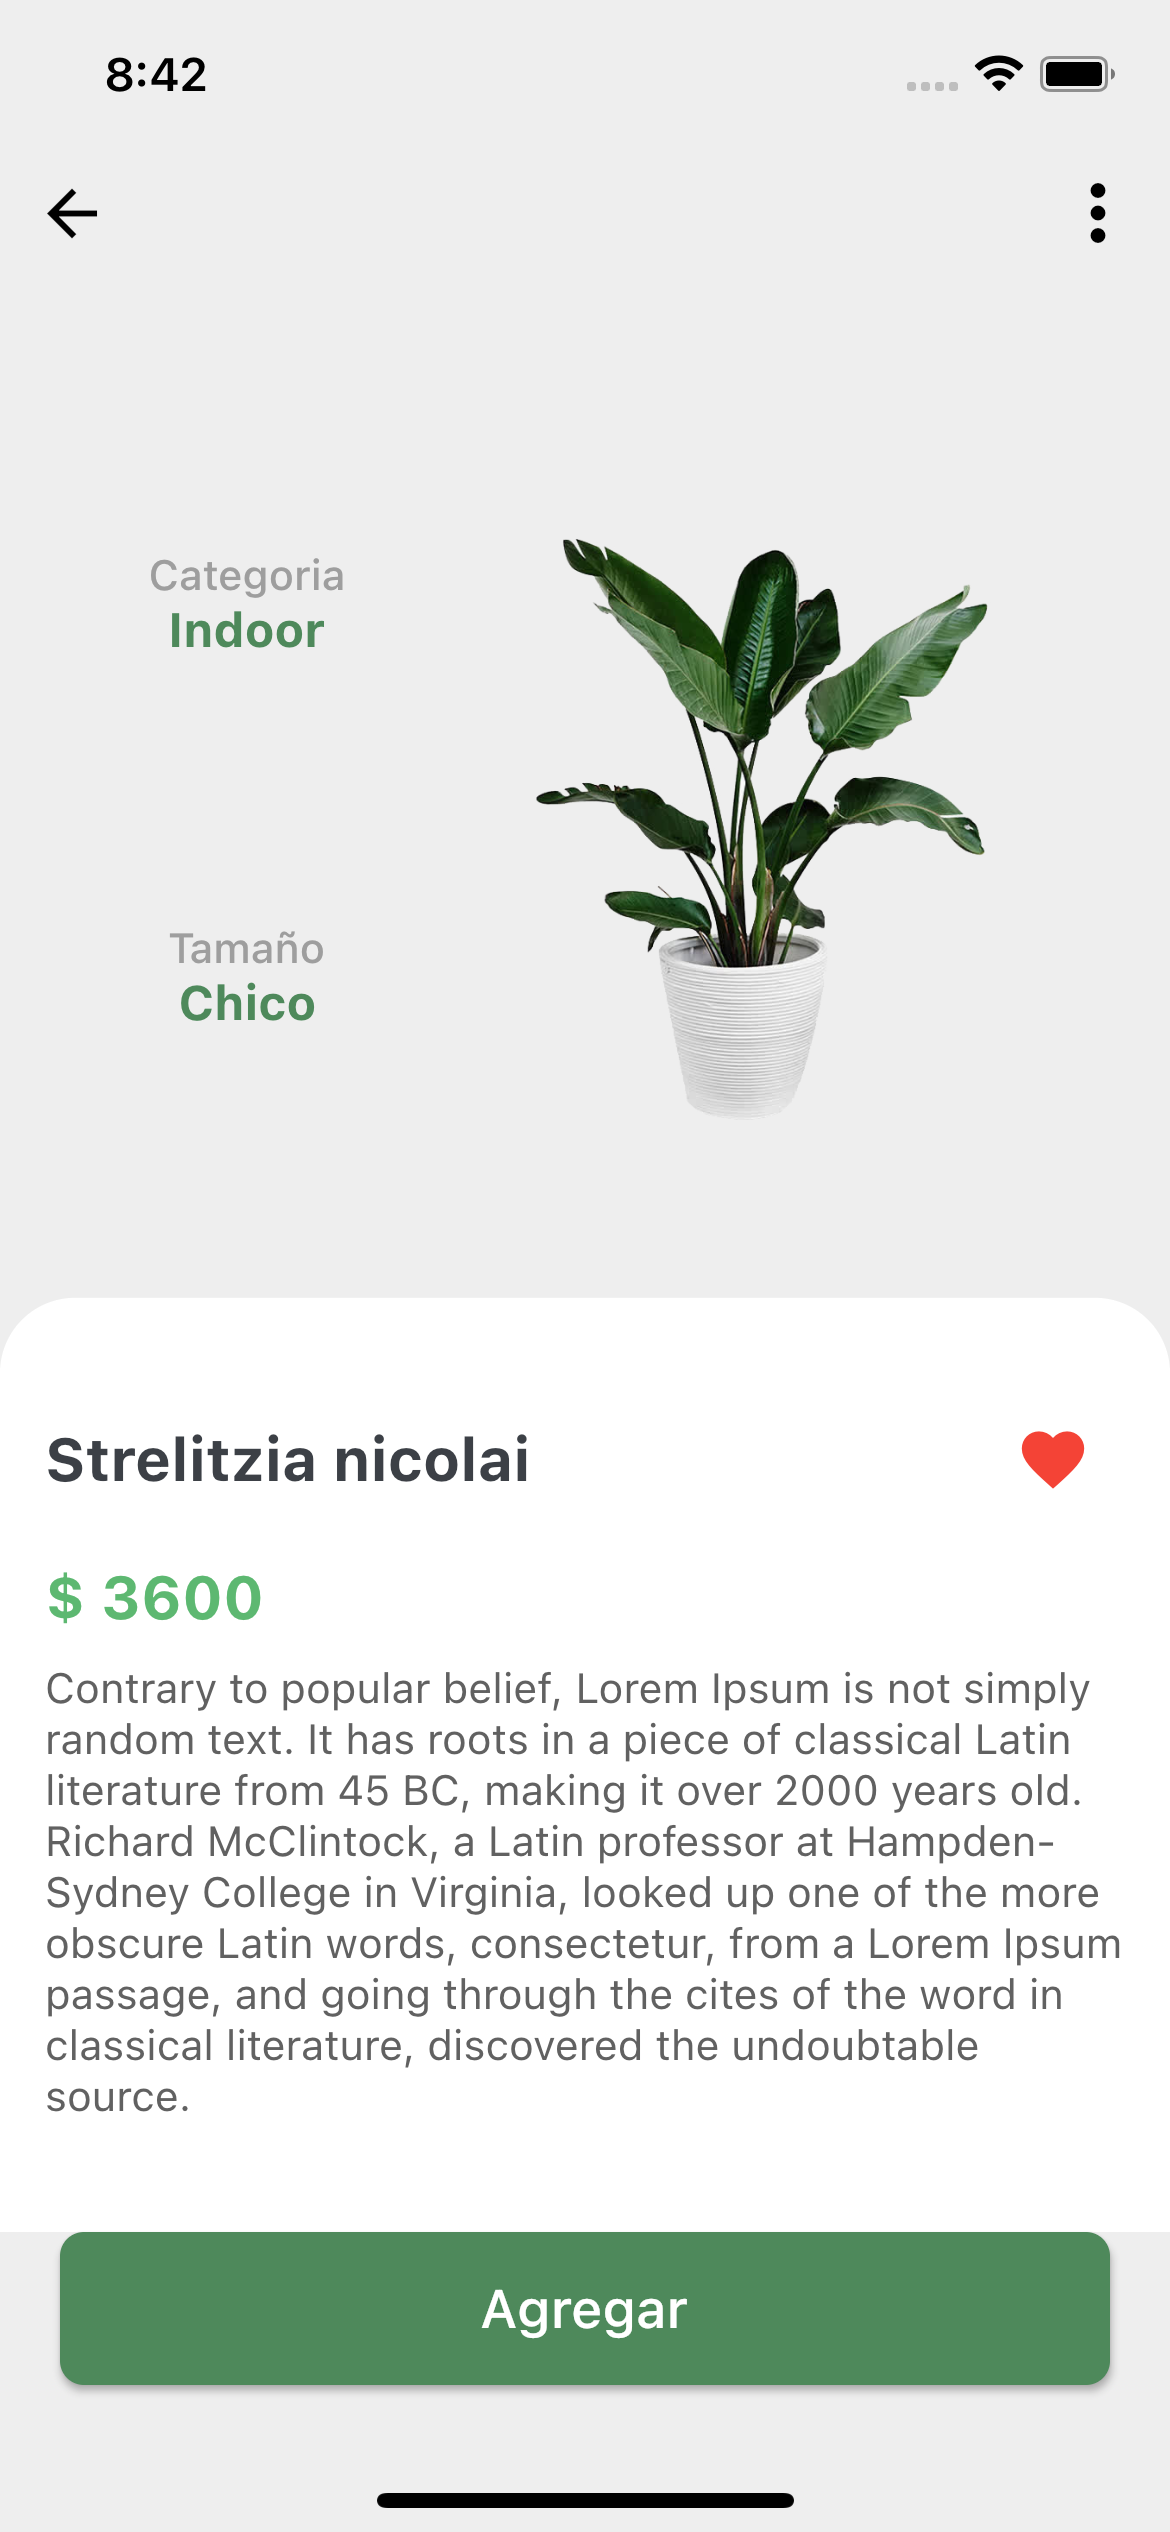
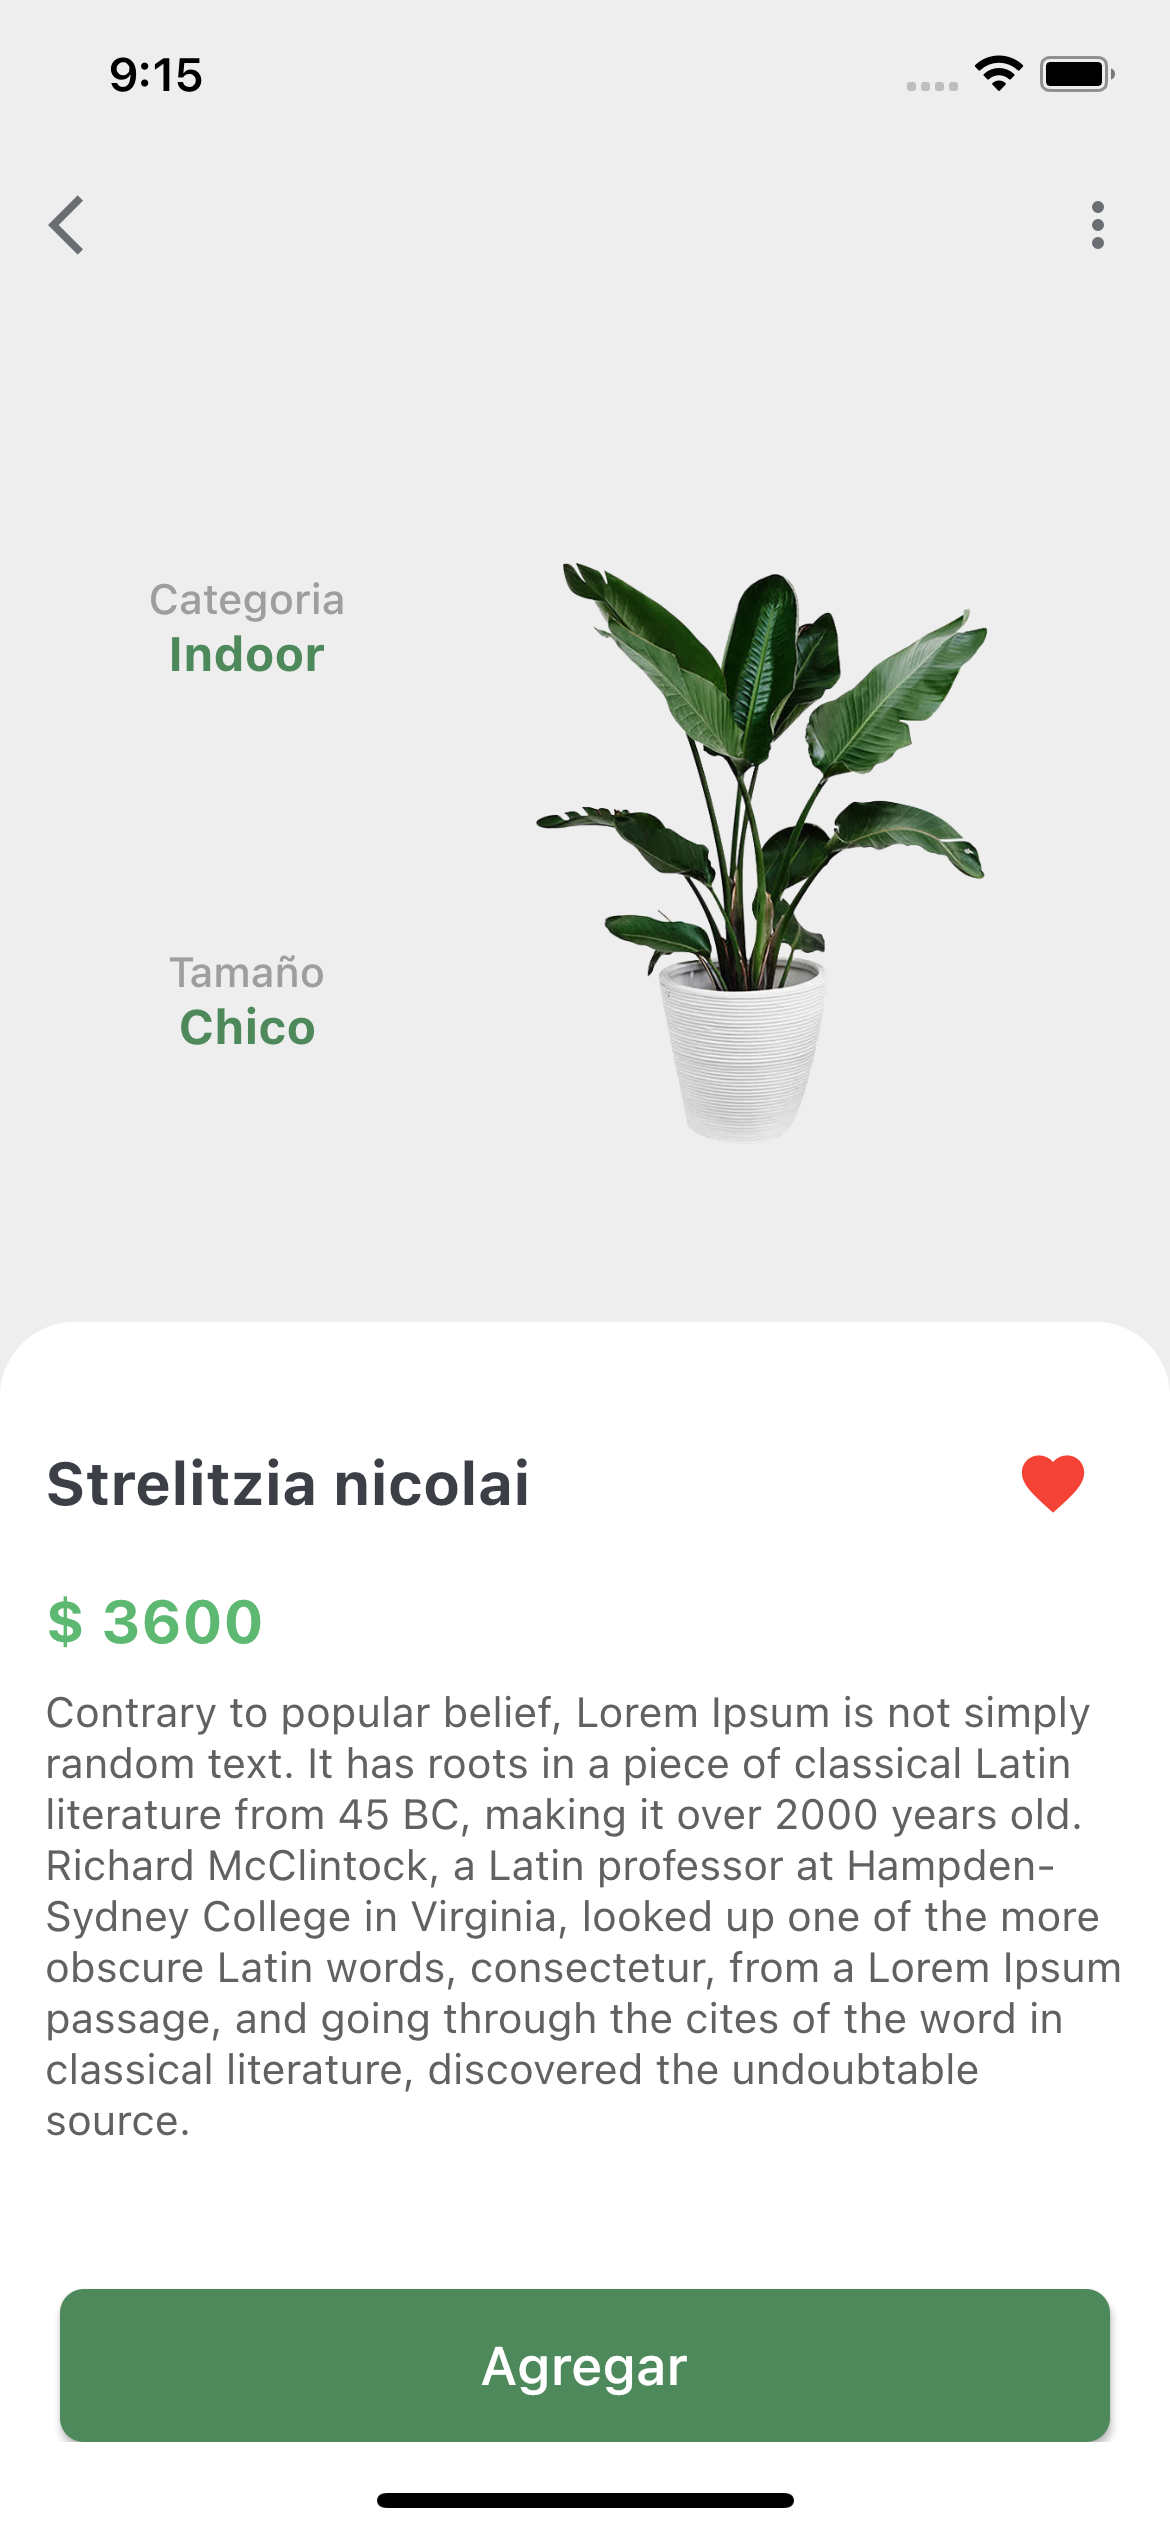
update Detail Plant

diff --git a/lib/src/pages/detail/detail_page.dart b/lib/src/pages/detail/detail_page.dart
@@ -17,74 +17,81 @@ class DetailPage extends StatelessWidget {
     final _size = MediaQuery.of(context).size;
 
     return Scaffold(
-      body: SafeArea(
-        child: Column(
-          children: [
-            _createHeader(context),
-            Container(
-              height: _size.height * 0.4,
-              child: Row(
-                mainAxisAlignment: MainAxisAlignment.spaceEvenly,
-                children: [
-                  Column(
-                    mainAxisAlignment: MainAxisAlignment.spaceEvenly,
-                    children: [
-                      Container(
-                        child: Column(
-                          children: [
-                            Text(
-                              "Categoria",
-                              style: TextStyle(
-                                  color: Colors.grey,
-                                  fontWeight: FontWeight.w500),
-                            ),
-                            Text(
-                              plant.houseplant ? "Indoor" : "Outdoor",
-                              style: TextStyle(
-                                  fontSize: 16.0,
-                                  color: kPrimaryColorDark,
-                                  fontWeight: FontWeight.bold),
-                            )
-                          ],
-                        ),
+      appBar: AppBar(
+        backgroundColor: kBackgroundColor,
+        actions: [
+          IconButton(icon: Icon(Icons.more_vert), onPressed: () {}),
+        ],
+      ),
+      body: Column(
+        children: [
+          Container(
+            color: kBackgroundColor,
+            height: _size.height * 0.4,
+            child: Row(
+              mainAxisAlignment: MainAxisAlignment.spaceEvenly,
+              children: [
+                Column(
+                  mainAxisAlignment: MainAxisAlignment.spaceEvenly,
+                  children: [
+                    Container(
+                      child: Column(
+                        children: [
+                          Text(
+                            "Categoria",
+                            style: TextStyle(
+                                color: Colors.grey,
+                                fontWeight: FontWeight.w500),
+                          ),
+                          Text(
+                            plant.houseplant ? "Indoor" : "Outdoor",
+                            style: TextStyle(
+                                fontSize: 16.0,
+                                color: kPrimaryColorDark,
+                                fontWeight: FontWeight.bold),
+                          )
+                        ],
                       ),
-                      Container(
-                        child: Column(
-                          children: [
-                            Text(
-                              "Tamaño",
-                              style: TextStyle(
-                                  color: Colors.grey,
-                                  fontWeight: FontWeight.w500),
-                            ),
-                            Text(
-                              "Chico",
-                              style: TextStyle(
-                                  fontSize: 16.0,
-                                  color: kPrimaryColorDark,
-                                  fontWeight: FontWeight.bold),
-                            )
-                          ],
-                        ),
-                      )
-                    ],
-                  ),
-                  _imagePlant(context)
-                ],
-              ),
+                    ),
+                    Container(
+                      child: Column(
+                        children: [
+                          Text(
+                            "Tamaño",
+                            style: TextStyle(
+                                color: Colors.grey,
+                                fontWeight: FontWeight.w500),
+                          ),
+                          Text(
+                            "Chico",
+                            style: TextStyle(
+                                fontSize: 16.0,
+                                color: kPrimaryColorDark,
+                                fontWeight: FontWeight.bold),
+                          )
+                        ],
+                      ),
+                    )
+                  ],
+                ),
+                _imagePlant(context)
+              ],
             ),
-            Expanded(
-              child: Container(
-                width: MediaQuery.of(context).size.width * 1,
-                decoration: BoxDecoration(
-                    color: Colors.white,
-                    borderRadius: BorderRadius.only(
-                        topRight: Radius.circular(25.0),
-                        topLeft: Radius.circular(25.0))),
-                child: _createDetail(context),
-              ),
+          ),
+          Expanded(
+            child: Container(
+              width: MediaQuery.of(context).size.width * 1,
+              decoration: BoxDecoration(
+                  color: Colors.white,
+                  borderRadius: BorderRadius.only(
+                      topRight: Radius.circular(25.0),
+                      topLeft: Radius.circular(25.0))),
+              child: _createDetail(context),
             ),
-            ButtonPrimary(
+          ),
+          Container(
+            color: Colors.white,
+            child: ButtonPrimary(
               text: plant.stock ? "Agregar" : "Sin Stock",
               onPressed: () {
                 final snackBar = SnackBar(
@@ -97,35 +104,15 @@ class DetailPage extends StatelessWidget {
                   ),
                 );
                 ScaffoldMessenger.of(context).showSnackBar(snackBar);
-
                 _catalogProvider.addToCatalog(plant);
               },
               enabled: plant.stock,
             ),
-            SizedBox(height: kDefaultPadding)
-          ],
-        ),
-      ),
-    );
-  }
-
-  Widget _createHeader(context) {
-    return Container(
-      child: Row(
-        mainAxisAlignment: MainAxisAlignment.spaceBetween,
-        children: [
-          IconButton(
-              icon: Icon(Icons.arrow_back),
-              color: Colors.black,
-              iconSize: 25.0,
-              onPressed: () {
-                Navigator.of(context).pop();
-              }),
-          IconButton(
-              icon: Icon(Icons.more_vert),
-              color: Colors.black,
-              iconSize: 30.0,
-              onPressed: () {}),
+          ),
+          Container(
+            color: Colors.white,
+            height: kDefaultPadding * 2,
+          )
         ],
       ),
     );
@@ -151,7 +138,6 @@ class DetailPage extends StatelessWidget {
           _headerPlant(context),
           _pricePlant(),
           _descriptionPlant(),
-          _footer()
         ],
       ),
     );
@@ -207,9 +193,5 @@ class DetailPage extends StatelessWidget {
       overflow: TextOverflow.fade,
       style: TextStyle(color: Colors.grey[700]),
     ));
-  }
-
-  Widget _footer() {
-    return Container();
   }
 }
